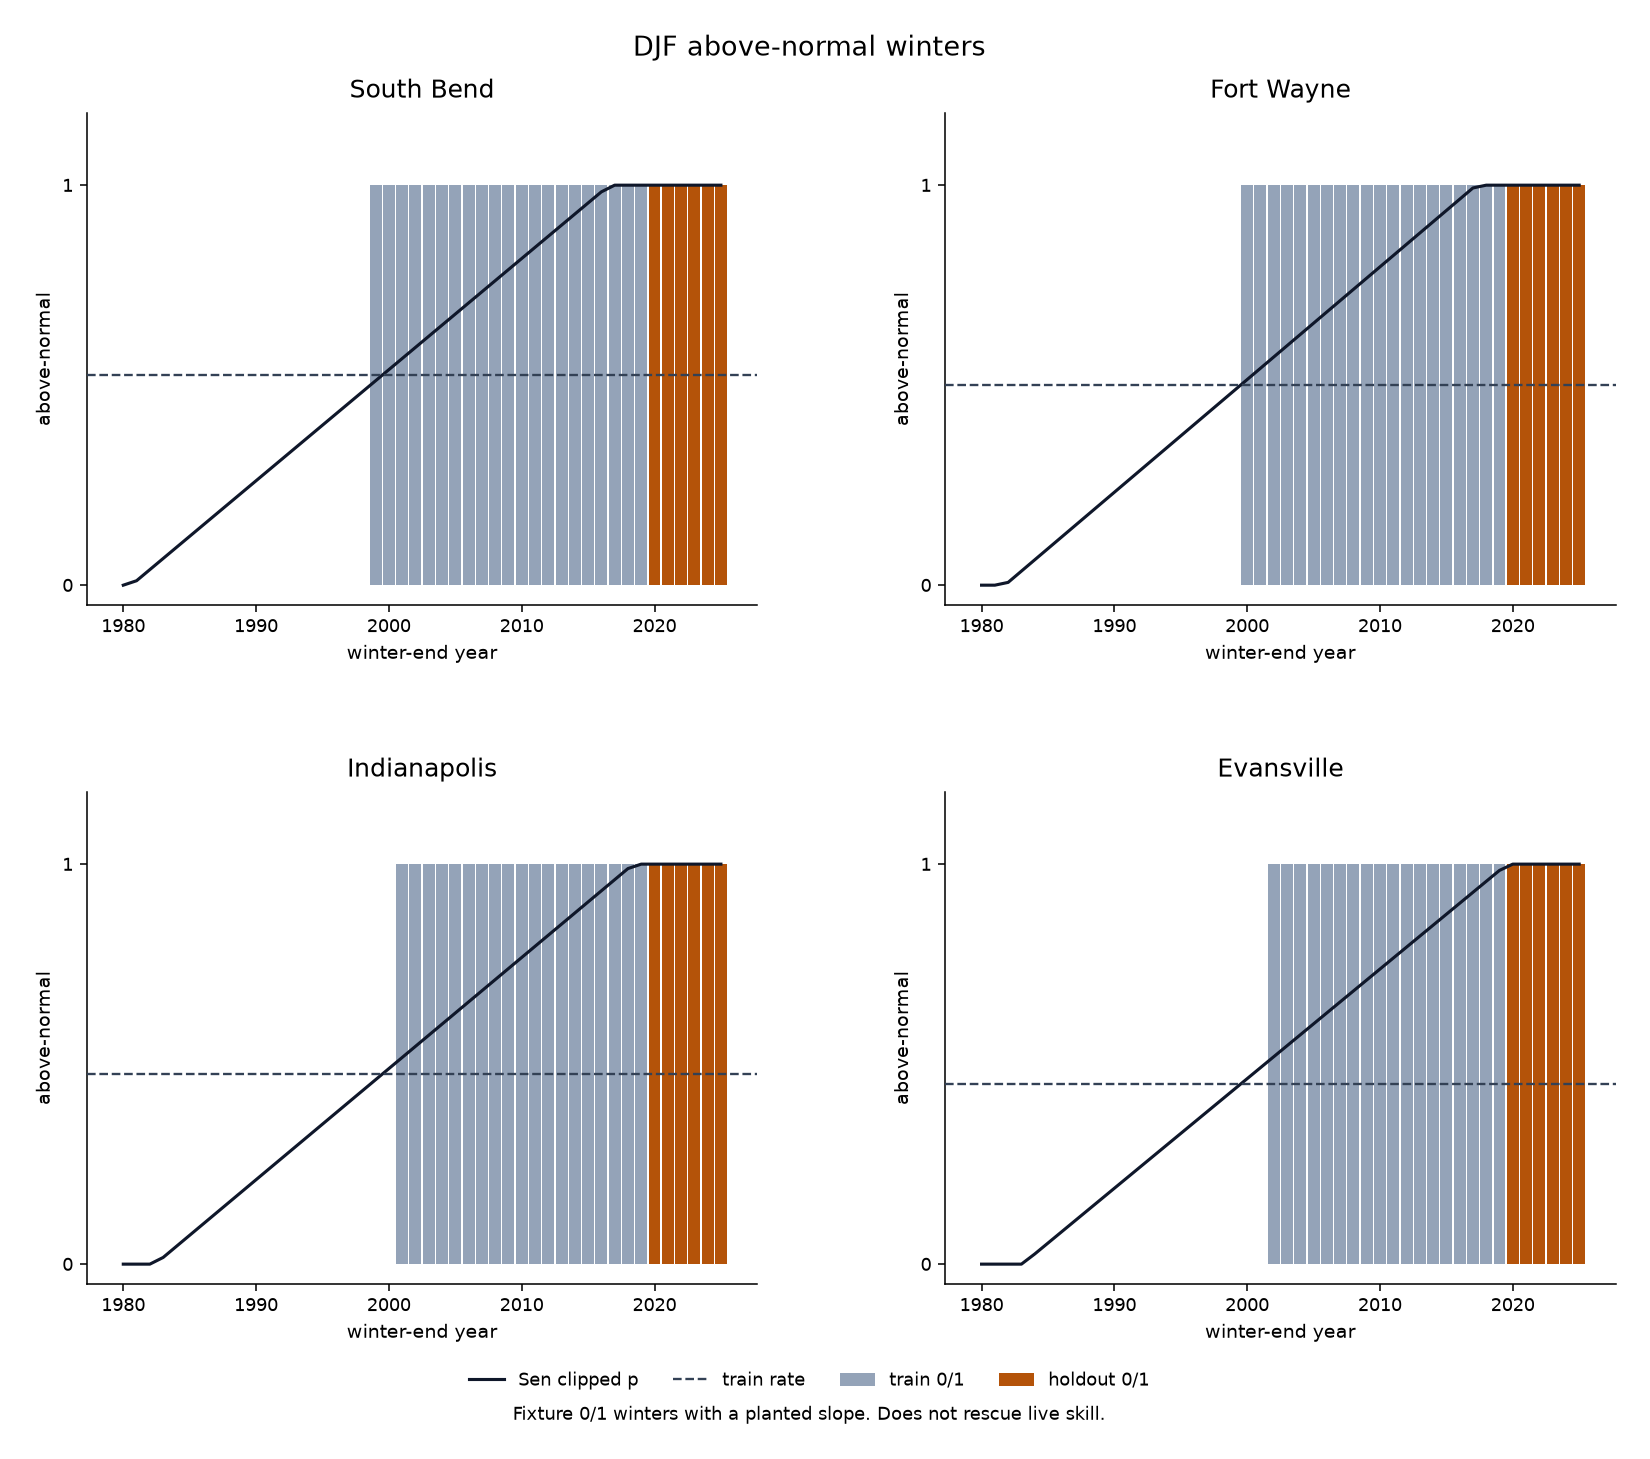
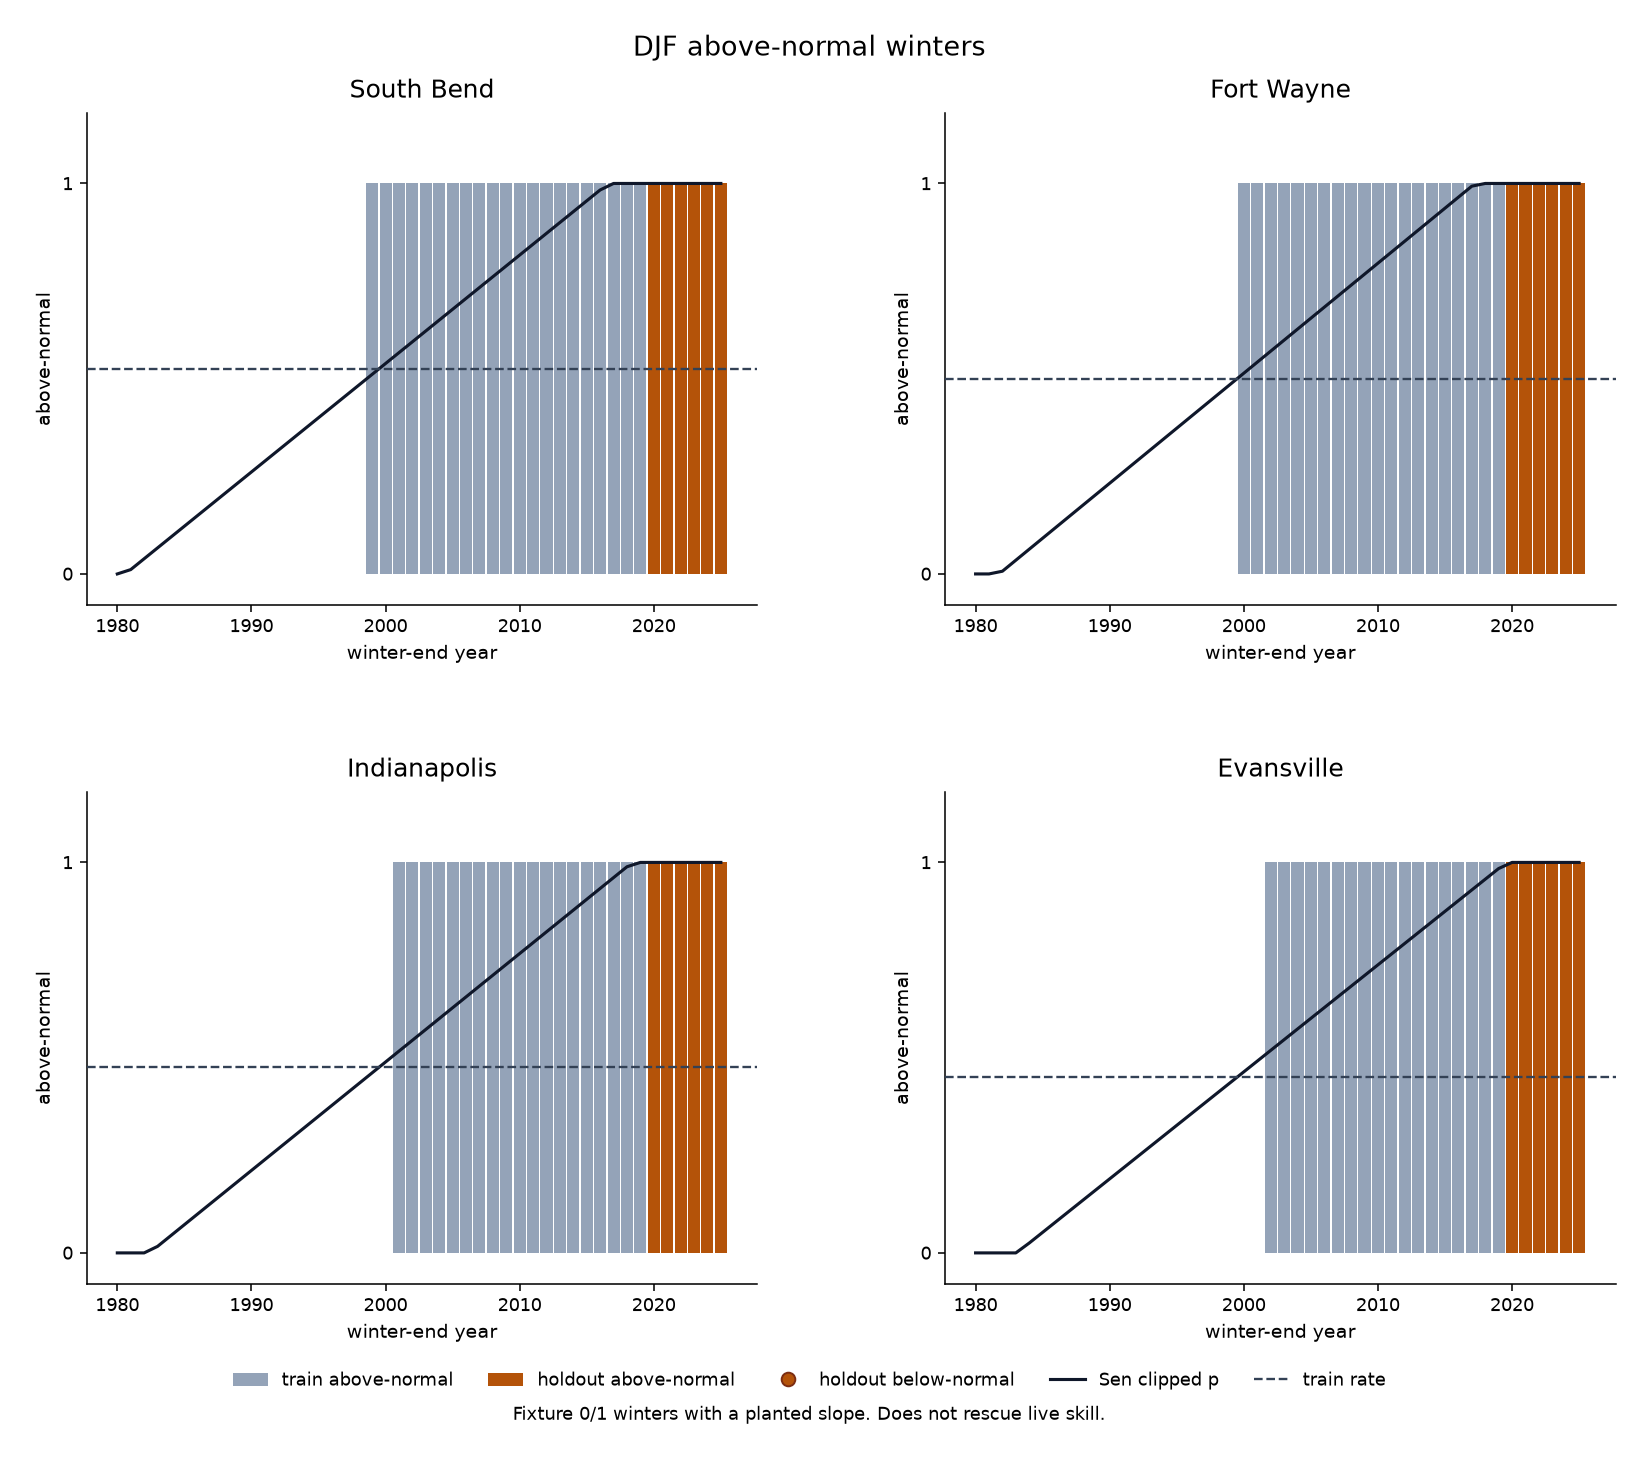
Caption restamp: mark holdout zeros on y = 0; one Sen = rate line.
Science lock 6de7758 is unchanged. South Bend 0/6 is visible. Do not read this as a trend chart.

diff --git a/src/snowfreq/figure.py b/src/snowfreq/figure.py
@@ -37,16 +37,24 @@ def _cap(n: int) -> None:
         raise FigureCapError(f"this tree stops at {MAX_FIGURES} figures")
 
 
+def _sen_is_flat(by_st: dict[str, Any]) -> bool:
+    slopes = [abs(float((by_st.get(sid) or {}).get("sen_slope_per_year") or 0.0)) for sid, _ in CORE_STATIONS]
+    return bool(slopes) and max(slopes) < 1e-12
+
+
 def draw_series(fit: dict[str, Any], *, title: str, subtitle: str):
-    """Four station panels. 0/1 winters as bars so the series has mass."""
+    """Four station panels. Holdout zeros sit on y = 0. Flat Sen is one line."""
     import matplotlib
 
     matplotlib.use("Agg")
     import matplotlib.pyplot as plt
+    from matplotlib.lines import Line2D
+    from matplotlib.patches import Patch
 
     rows = list(fit.get("holdout_rows") or [])
     train = list(fit.get("train_rows") or [])
     by_st = fit["by_station"]
+    flat = _sen_is_flat(by_st)
     fig, axes = plt.subplots(2, 2, figsize=(12.0, 10.2), sharex=False, sharey=False)
     years_line = np.arange(int(fit["common_start"]), int(fit.get("train_last") or TRAIN_LAST_WINTER) + 7)
     for ax, (sid, city) in zip(axes.ravel(), CORE_STATIONS):
@@ -61,27 +69,63 @@ def draw_series(fit: dict[str, Any], *, title: str, subtitle: str):
         hy = np.asarray([int(r["winter_id"]) for r in hold], dtype=float)
         ha = np.asarray([int(r["above"]) for r in hold], dtype=float)
         if ty.size:
-            ax.bar(ty, ta, width=0.9, color="#94a3b8", linewidth=0, zorder=2, label="train 0/1")
+            ones = ta >= 0.5
+            if np.any(ones):
+                ax.bar(ty[ones], ta[ones], width=0.9, color="#94a3b8", linewidth=0, zorder=2)
         if hy.size:
-            ax.bar(hy, ha, width=0.9, color="#b45309", linewidth=0, zorder=3, label="holdout 0/1")
-        p = [clip01(rate + slope * (float(y) - anchor)) for y in years_line]
-        ax.plot(years_line, p, color="#0f172a", lw=1.6, zorder=4, label="Sen clipped p")
-        ax.axhline(rate, color="#334155", ls="--", lw=1.2, zorder=4, label="train rate")
+            h1 = ha >= 0.5
+            h0 = ~h1
+            if np.any(h1):
+                ax.bar(hy[h1], ha[h1], width=0.9, color="#b45309", linewidth=0, zorder=3)
+            if np.any(h0):
+                ax.scatter(
+                    hy[h0],
+                    np.zeros(int(h0.sum())),
+                    s=42,
+                    c="#b45309",
+                    marker="o",
+                    zorder=5,
+                    edgecolors="#7c2d12",
+                    linewidths=0.6,
+                )
+        if flat:
+            ax.axhline(rate, color="#0f172a", lw=1.6, zorder=4)
+        else:
+            p = [clip01(rate + slope * (float(y) - anchor)) for y in years_line]
+            ax.plot(years_line, p, color="#0f172a", lw=1.6, zorder=4)
+            ax.axhline(rate, color="#334155", ls="--", lw=1.2, zorder=4)
         ax.set_title(city, fontsize=13, pad=8)
         ax.set_xlabel("winter-end year", fontsize=10)
         ax.set_ylabel("above-normal", fontsize=10)
-        ax.set_ylim(-0.05, 1.18)
+        ax.set_ylim(-0.08, 1.18)
         ax.set_yticks([0, 1])
         ax.tick_params(labelsize=9)
         ax.spines["top"].set_visible(False)
         ax.spines["right"].set_visible(False)
-    handles, labels = axes[0, 0].get_legend_handles_labels()
+    handles: list = [
+        Patch(facecolor="#94a3b8", label="train above-normal"),
+        Patch(facecolor="#b45309", label="holdout above-normal"),
+        Line2D(
+            [0],
+            [0],
+            marker="o",
+            color="#b45309",
+            markeredgecolor="#7c2d12",
+            linestyle="None",
+            markersize=7,
+            label="holdout below-normal",
+        ),
+    ]
+    if flat:
+        handles.append(Line2D([0], [0], color="#0f172a", lw=1.6, label="Sen = train rate (0.000 / decade)"))
+    else:
+        handles.append(Line2D([0], [0], color="#0f172a", lw=1.6, label="Sen clipped p"))
+        handles.append(Line2D([0], [0], color="#334155", lw=1.2, ls="--", label="train rate"))
     fig.legend(
-        handles,
-        labels,
+        handles=handles,
         fontsize=9,
         loc="lower center",
-        ncol=4,
+        ncol=len(handles),
         frameon=False,
         bbox_to_anchor=(0.5, 0.015),
     )

diff --git a/tests/test_pipeline.py b/tests/test_pipeline.py
@@ -88,6 +88,8 @@ def test_bar_labels_are_city_names_and_do_not_overlap() -> None:
 def test_series_four_panels_are_separate_and_not_cropped() -> None:
     import json
 
+    import numpy as np
+
     from snowfreq.config import CORE_STATIONS, LIVE_SERIES_SUBTITLE
     from snowfreq.figure import draw_series
 
@@ -116,9 +118,20 @@ def test_series_four_panels_are_separate_and_not_cropped() -> None:
         assert ax_box.height >= 220
         assert not title_box.overlaps(ax_box)
         assert not legend_box.overlaps(ax_box)
-        assert len(ax.patches) >= 40
+        assert len(ax.patches) >= 20
         assert ax.get_xlabel() == "winter-end year"
         assert ax.get_ylabel() == "above-normal"
+    sb = axes[0]
+    hold0 = [
+        r for r in fit["holdout_rows"] if r["station_id"] == "USW00014848" and int(r["above"]) == 0
+    ]
+    assert len(hold0) == 6
+    y0 = np.concatenate([c.get_offsets()[:, 1] for c in sb.collections]) if sb.collections else np.array([])
+    assert y0.size >= 6
+    assert np.all(np.abs(y0) < 1e-9)
+    texts = " ".join(t.get_text() for t in fig.legends[0].get_texts())
+    assert "Sen = train rate (0.000 / decade)" in texts
+    assert texts.count("train rate") == 1
     import matplotlib.pyplot as plt
 
     plt.close(fig)

diff --git a/tests/test_readme.py b/tests/test_readme.py
@@ -20,6 +20,8 @@ def test_readme_opens_with_the_question() -> None:
     assert "not a regional trend" in text
     assert "logs/in_live/series.png" in text
     assert "logs/in_live/brier_bars.png" in text
+    assert "Holdout zeros are orange marks on y = 0" in text
+    assert "Sen equals the train rate (0.000 / decade)" in text
     assert "9aa7935" in text
     assert "82ce0ce" in text
     assert "0ace8a1" in text

diff --git a/src/snowfreq/config.py b/src/snowfreq/config.py
@@ -58,6 +58,7 @@ FROZEN_NORMALS_IN = {
 
 LIVE_SERIES_SUBTITLE = (
     "Above-normal DJF winters (0/1) vs the frozen 1991-2020 normal. "
+    "Holdout zeros are marked on y = 0. Sen equals the train rate (0.000 / decade). "
     "Not inches and not a storm."
 )
 LIVE_BARS_SUBTITLE = (

diff --git a/README.md b/README.md
@@ -14,7 +14,7 @@ Cores: South Bend `USW00014848`, Fort Wayne `USW00014827`, Indianapolis `USW0009
 
 ![Figure 1. Holdout and train 0/1 series](logs/in_live/series.png)
 
-Figure 1. Train and holdout above-normal DJF winters (0/1) versus winter-end year. Frozen 1991-2020 normal is the classifier. Above-normal winters, not inches and not a storm.
+Figure 1. Train and holdout above-normal DJF winters (0/1) versus winter-end year. Holdout zeros are orange marks on y = 0, so South Bend 0/6 is visible. Sen equals the train rate (0.000 / decade): one line, not two. Frozen 1991-2020 normal is the classifier. Above-normal winters, not inches and not a storm.
 
 ![Figure 2. Holdout Brier bars](logs/in_live/brier_bars.png)
 
